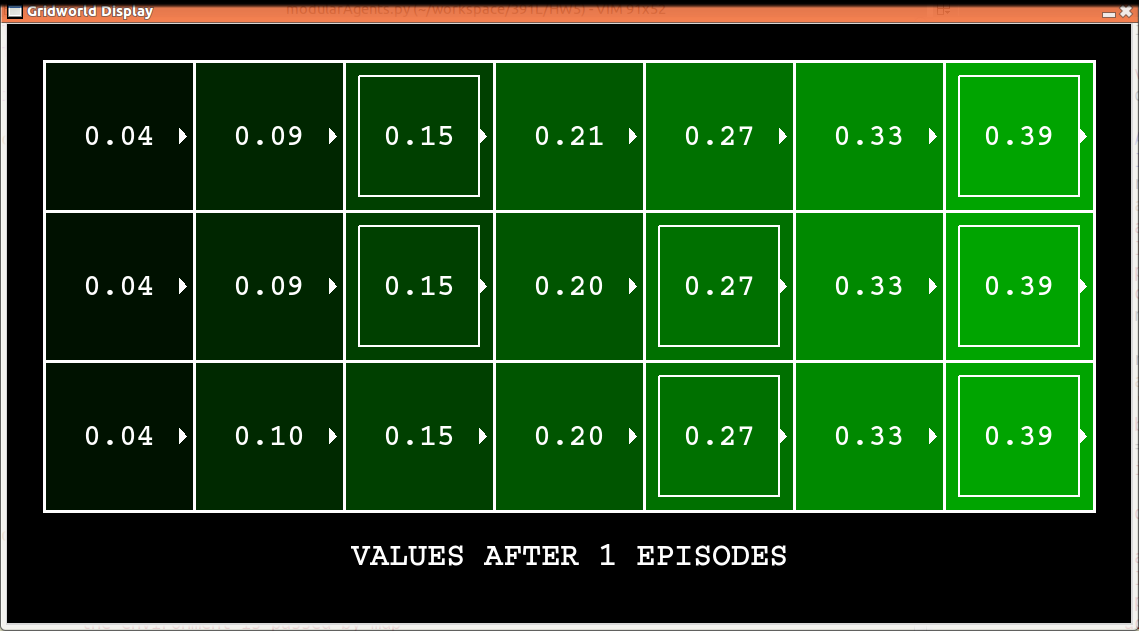
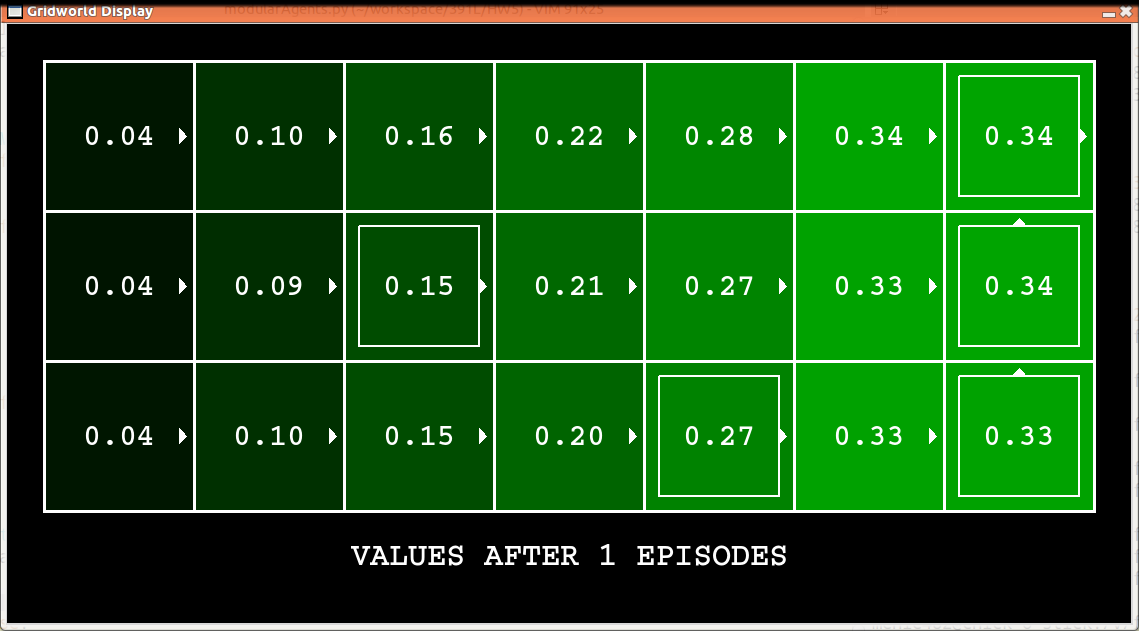
start adding gibbs softmax

diff --git a/HW5/modularAgents.py b/HW5/modularAgents.py
@@ -1,4 +1,4 @@
-from qlearningAgents import ApproximateQAgent 
+from qlearningAgents import ApproximateQAgent
 from game import Actions
 
 import math
@@ -7,19 +7,47 @@ class ModularAgent(ApproximateQAgent):
 	def __init__(self, **args):
 		ApproximateQAgent.__init__(self, **args)
  
-	def getQValue(self, state, action):
+	def getQValue(self, state, action, idx = None):
 		"""
 			Get Q value by consulting each module
+			If idx indicated, then only return qvalue for that qFunc
 		"""
-		qValues = self.qFuncs(state, action)
+		if idx != None:
+			return qFuncs[idx](state, action)
+		else:
+			qValues = []
+			for qFunc in self.qFuncs:
+				qValues.append(qFunc(state, action))
 
-		return 0.6 * qValues[0] + 0.4 * qValues[1]
+			return 0.6 * qValues[0] + 0.4 * qValues[1]
 	
 	def setQFuncs(self, qFuncs):
 		"""
 			Must set QFuncs here. getQValue will use this.
 		"""
 		self.qFuncs = qFuncs
+	
+	def getPolicy(self, state):
+		"""
+			Can toggle between using QValue directly (traditional way)
+			or by proportion of exp(QValue)
+		"""
+		return ApproximateQAgent.getPolicy(self, state)
+		#return self.getGibbsPolicy(state)
+	
+	def getGibbsPolicy(self, state):
+		"""
+			Rather than using QValue, use proportion of exp(QValue)
+		"""
+		actions = self.getLegalActions(state)
+		if actions: 
+			q_value_func = lambda action: self.getQValue(state, action)
+			[math.exp(q_value_func(action)) for action in actions]
+			return random.choice(optActions)
+		else:
+			return None
+
+
 
 def getObsAvoidFuncs(mdp):
 	"""
@@ -30,15 +58,31 @@ def getObsAvoidFuncs(mdp):
 	obstacle = {'bias': -0.20931133310480204, 'dis': 0.06742681562641269}
 	sidewalk = {'x': 0.06250000371801567}
 
-	def qValues(state, action):
+	def getNext(state, action):
 		x, y = state
 		dx, dy = Actions.directionToVector(action)
 		next_x, next_y = int(x + dx), int(y + dy)
+		if next_x < 0 or next_x >= mdp.grid.width:
+			next_x = x
+		if next_y < 0 or next_y >= mdp.grid.height:
+			next_y = y
 
-		# forward walking
-		qWalk = sidewalk['x'] * next_x
+		return [next_x, next_y]
 
-		# obstacle avoiding
+	def qWalk(state, action):
+		"""
+			QValue of forward walking
+		"""
+		next_x, next_y = getNext(state, action)
+		return sidewalk['x'] * next_x
+
+	def qObstacle(state, action):
+		"""
+			QValue of obstacle avoiding
+		"""
+		x, y = state
+		next_x, next_y = getNext(state, action)
+
 		# find the distance to the nearest obstacle
 		minDist = mdp.grid.width * mdp.grid.height
 		for xt in range(mdp.grid.width):
@@ -48,8 +92,6 @@ def getObsAvoidFuncs(mdp):
 					# it's an obstacle!
 					dist = math.sqrt((xt - next_x) ** 2 + (yt - next_y) ** 2)
 					if (dist < minDist): minDist = dist
-		qObstacle = minDist * obstacle['dis'] + 1 * obstacle['bias']
+		return minDist * obstacle['dis'] + 1 * obstacle['bias']
 
-		return [qWalk, qObstacle]
-
-	return qValues
+	return [qWalk, qObstacle]

diff --git a/HW5/qlearningAgents.py b/HW5/qlearningAgents.py
@@ -123,7 +123,6 @@ class QLearningAgent(ReinforcementAgent):
     new_qvalue = (1 - self.alpha) * self.getQValue(state, action) + self.alpha * sample 
     self.values[state, action] = new_qvalue 
 
-
 class PacmanQAgent(QLearningAgent):
   "Exactly the same as QLearningAgent, but with different default parameters"
   
